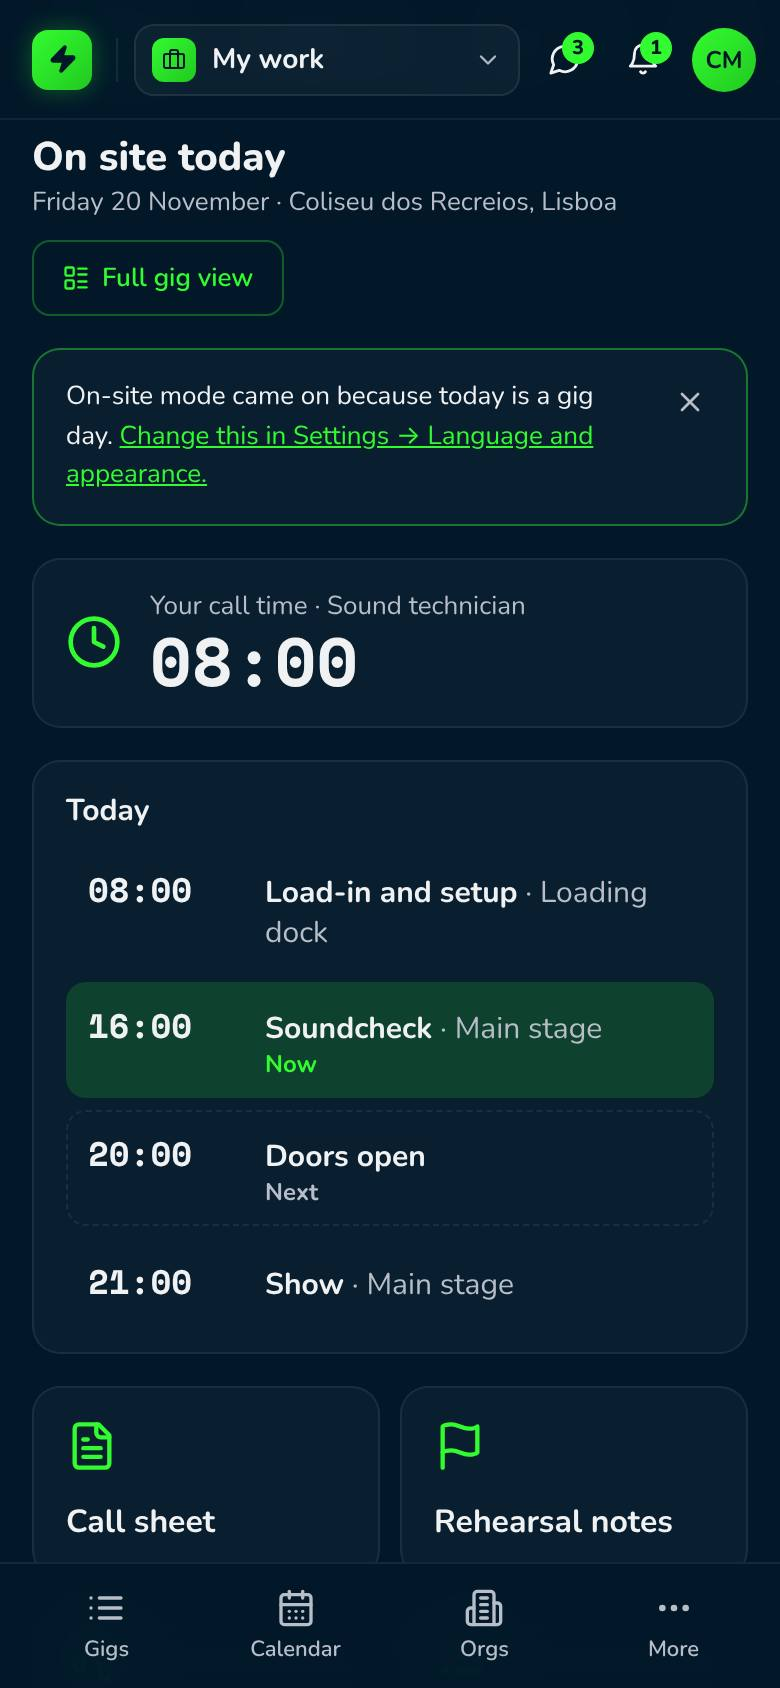
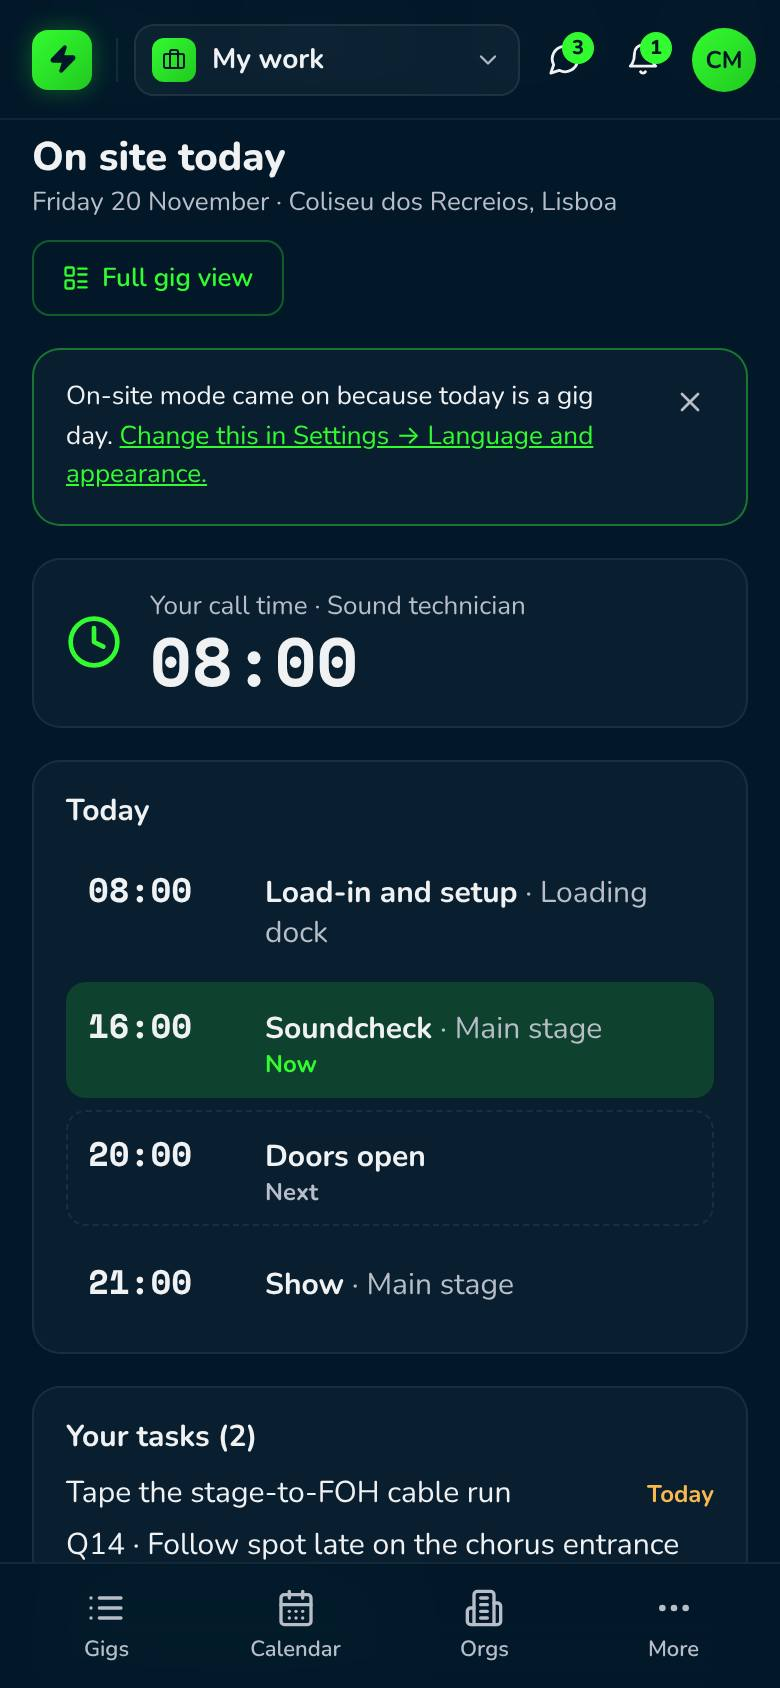
Tasks T2: organisation tasks, checklist templates, repairs as tasks, tasks in On-site mode — 0.59.0
Claude-Session: https://claude.ai/code/session_01SN7TraSZcL9idsFYdvFKh1

Changed region(s): [[0.0615, 0.8318, 0.9231, 0.9242]]

diff --git a/src/help/pt.js b/src/help/pt.js
@@ -135,6 +135,7 @@ export default {
     'inventory-item': { title: 'Um artigo de equipamento', summary: 'Um artigo do catálogo: detalhes, stock por local, unidades com etiquetas, conteúdo do kit, manutenção e histórico.' },
     jobs: { title: 'Trabalhos', summary: 'Vagas abertas de empresas no AVX: as das suas funções e distância, ou todas, e as suas candidaturas. O seu preço por dia só vai para a empresa a que se candidata.' },
     'org-jobs': { title: 'Vagas publicadas', summary: 'As vagas que a vossa organização publicou e quem se candidatou. Ponha na lista final, recuse ou ofereça o lugar; feche uma vaga ou marque-a como preenchida.' },
+    'org-tasks': { title: 'Tarefas', summary: 'As tarefas da própria organização e as dos seus eventos, com os modelos de lista.' },
     'crew-search': { title: 'Procurar técnicos', summary: 'Freelancers no AVX que ligaram o seu perfil profissional e deixam que as empresas o vejam. Pesquise por função, local, datas e língua, e depois pergunte por um evento ou ofereça um lugar. Os contactos ficam privados até a pessoa entrar.' },
     'crew-profile': { title: 'Perfil profissional', summary: 'Deixe que as empresas no AVX o encontrem para trabalhar. Desligado até o ligar; escolhe quem o vê (só empresas, ou empresas e técnicos) e pode mudá-lo, desligá-lo ou removê-lo a qualquer momento. Sem preços.' },
     contacts: { title: 'Contactos', summary: 'Os seus clientes e fornecedores, guardados uma vez. Os orçamentos escolhem daqui o cliente e os sub-alugueres o fornecedor. Importe-os de uma folha de cálculo, ou adicione de uma vez os clientes escritos em orçamentos antigos.' },
@@ -240,6 +241,19 @@ export default {
       mistakes: [
         'Só quem gere o evento e os administradores e membros da organização criam e alteram tarefas; a equipa marca-as.',
         'As tarefas só podem ser dadas a pessoas no evento. Junte-as primeiro à equipa.',
+      ],
+    },
+    'pm-org-tasks': {
+      title: 'Tarefas da organização e modelos de lista',
+      intro: 'Trabalhos de escritório e armazém, reparações e listas que usa em todos os eventos.',
+      steps: [
+        'Abra Organização → Tarefas. Mostra as tarefas da própria organização e as dos eventos que pode ver. "Nova tarefa" cria uma para alguém da organização; "Organização" e "Nos eventos" filtram a lista.',
+        'Em "Modelos de lista", escreva uma lista uma vez (verificação da carrinha, desmontagem). Ao começar uma tarefa, num evento ou aqui, "Começar a partir de um modelo" preenche a lista.',
+        'Em Inventário → Manutenção, abra uma reparação e toque em "Criar tarefa": a reparação passa a ser uma tarefa da organização, pronta a atribuir.',
+      ],
+      mistakes: [
+        'Alterar um modelo não muda as tarefas já criadas a partir dele.',
+        'As tarefas de um evento editam-se no evento; aqui pode marcá-las.',
       ],
     },
     'crew-onsite': {

diff --git a/src/help/en.js b/src/help/en.js
@@ -138,6 +138,7 @@ export default {
     'inventory-item': { title: 'An equipment item', summary: 'One catalogue item: its details, stock per location, units with their labels, kit contents, maintenance and history.' },
     jobs: { title: 'Jobs', summary: 'Open positions from companies on AVX: the ones for your functions and travel range, or all of them, and your applications. Your day rate goes only to the company you apply to.' },
     'org-jobs': { title: 'Job posts', summary: 'The positions your organisation posted to the job board and who applied. Shortlist, decline or offer the place; close a post or mark it filled.' },
+    'org-tasks': { title: 'Tasks', summary: 'The organisation\'s own tasks and those on its gigs, with its checklist templates.' },
     'crew-search': { title: 'Find crew', summary: 'Freelancers on AVX who switched on their crew profile and let companies see it. Search by function, place, dates and language, then ask about a gig or offer a place. Their contact details stay private until they join.' },
     'crew-profile': { title: 'Crew profile', summary: 'Let companies on AVX find you for work. Off until you switch it on; you choose who sees it (companies only, or companies and crew) and can change, switch off or remove it at any time. No rates on it.' },
     contacts: { title: 'Contacts', summary: 'Your clients and suppliers, kept once. Quotes pick their client from here and subrentals their supplier. Import them from a spreadsheet, or add the clients typed on older quotes in one go.' },
@@ -243,6 +244,19 @@ export default {
       mistakes: [
         'Only the gig\'s managers and the organisation\'s admins and members create and change tasks; crew tick them.',
         'Tasks can only be given to people on the gig. Add them to the crew first.',
+      ],
+    },
+    'pm-org-tasks': {
+      title: 'Organisation tasks and checklist templates',
+      intro: 'Office and warehouse jobs, repairs, and checklists you use on every gig.',
+      steps: [
+        'Open Organisation → Tasks. It lists the organisation\'s own tasks and those on its gigs that you can see. "New task" makes one for someone in the organisation; "Organisation" and "On gigs" filter the list.',
+        'Under "Checklist templates", write a checklist once (a van check, a load-out). When you start a task, on a gig or here, "Start from a template" fills in its checklist.',
+        'In Inventory → Maintenance, open a repair and tap "Make a task": the repair becomes a task on the organisation, ready to give to someone.',
+      ],
+      mistakes: [
+        'Changing a template doesn\'t change the tasks already made from it.',
+        'Tasks on a gig are edited on the gig; here you can tick them.',
       ],
     },
     'crew-onsite': {

diff --git a/src/help/index.js b/src/help/index.js
@@ -25,6 +25,7 @@ export const PAGE_TERMS = {
   'crew-search': ['crew-call', 'availability-request', 'network', 'block'],
   jobs: ['crew-call', 'block'],
   'org-jobs': ['crew-call', 'block'],
+  'org-tasks': ['repair'],
   quote: ['phase', 'factor', 'vat', 'quote-version', 'client-link', 'price-list'],
   orgs: ['organisation', 'org-admin', 'org-member', 'viewer', 'retention'],
 }
@@ -50,6 +51,7 @@ export const GUIDES = {
   'crew-jobs': { role: 'crew', pages: ['jobs', 'crew-profile'], terms: ['crew-call'], shots: [null, 'jobs-board', null] },
   'crew-rehearsal': { role: 'crew', pages: ['gig'], terms: ['timecode'], shots: [null, 'rehearsal', null, null] },
   'pm-tasks': { role: 'pm', pages: ['gig'], terms: [], shots: [null, 'gig-tasks', null] },
+  'pm-org-tasks': { role: 'pm', pages: ['org-tasks', 'inventory'], terms: ['repair'], shots: [null, 'org-task-templates', null] },
   'crew-onsite': { role: 'crew', pages: ['gig'], terms: ['call-time', 'schedule'], shots: [null, 'onsite', null] },
   'crew-dmx-calc': { role: 'crew', pages: ['pocket-tools', 'gig'], terms: ['dmx-address', 'dmx-universe'], shots: [null, 'dmx-calc', 'dmx-walk'] },
   'crew-trust': { role: 'crew', pages: ['crew-profile', 'jobs'], terms: [], shots: [null, null, null] },

diff --git a/src/pages/OrgTasksPage.jsx b/src/pages/OrgTasksPage.jsx
@@ -104,6 +104,7 @@ export default function OrgTasksPage() {
   if (!role) return (
     <AppShell>
       <div style={{ maxWidth: '360px', margin: '80px auto', textAlign: 'center', padding: '0 16px' }}>
+        <h1 style={{ fontSize: '20px', fontWeight: 800, marginBottom: '8px' }}>{t('tasks.orgTitle')}</h1>
         <p style={{ color: colors.muted, fontSize: '14px', lineHeight: 1.6, marginBottom: '20px' }}>{t('tasks.noAccess')}</p>
         <button type="button" onClick={() => navigate('/dashboard')} style={btnPrimary}><ArrowLeft size={14} /> {t('common.backToDashboard')}</button>
       </div>

diff --git a/docs/TOOLS_PLAN.md b/docs/TOOLS_PLAN.md
@@ -390,7 +390,7 @@ the step's PR, not a later clean-up. Numbers in brackets are from COMPETITOR_RES
 | 2 | **R2** camera and LTC sync ✅ 0.55.0 | R1 | Session clock type shown in the report |
 | 3 | **D1** DMX calculator and dipswitches ✅ 0.56.0 | DMX patch | DMX patch column and walk-through (by light plot position) |
 | 4 | **On-site mode** and Tools split (Plan / On site), personal auto setting ✅ 0.57.0 | R1, D1, field kit | Call sheet, rehearsal notes, walk-through, input list, scanning, settings |
-| 5 | **Tasks** [6]: **T1** gig tasks, My tasks, R1 notes → tasks, notification ✅ 0.58.0; **T2** organisation tasks, checklist templates | — | R1 notes → tasks ✅; T2: inventory repairs, On-site mode checklists |
+| 5 | **Tasks** [6]: **T1** gig tasks, My tasks, R1 notes → tasks, notification ✅ 0.58.0; **T2** organisation tasks, checklist templates ✅ 0.59.0 | — | R1 notes → tasks ✅, inventory repairs ✅, On-site mode ✅; gig templates (step 25) will copy tasks |
 | 6 | **Custom statuses and gig types** [10], **custom fields** [12] | — | Gig lists, calendar, filters, export, import |
 | 7 | **Crew rates** [3] | crew, functions | Crew calls and job posts (fee), quotes (labour lines) |
 | 8 | **Time registration** [2] | crew rates, schedule | Gig crew tab, calendar feed, export |
@@ -430,6 +430,14 @@ why none), and CHANGELOG lists those connections.
 | Checks | The assignee must be on the gig (or in the organisation); a note becomes a task on its own gig only, once |
 | Notification | `task_assigned` when someone else gives you a task or changes who it's for; a direct kind, sent even when the organisation is muted |
 | Screens | Gig → Tasks (`TasksTab`), My tasks (`/tasks`), the rehearsal session's "Make a task" button. Pure helpers in `src/lib/tasks.js` with tests; database checks in `supabase/tests/tasks.sql` |
+
+### How Tasks T2 works (0.59.0)
+
+| Piece | How it works |
+|---|---|
+| Templates | `task_templates` (migration `20261130000000_tasks_t2.sql`): name, notes, items (texts of up to 200 characters, up to 50). Members of the organisation read them; admins and members manage them; removing only marks them. At most 200 per organisation. Database checks in `supabase/tests/tasks_t2.sql` |
+| Repairs | `tasks.repair_id`: set when the task is made, never changed; the repair must be the organisation's, the task the organisation's own (not a gig's); one live task per repair |
+| Screens | Organisation → Tasks (`OrgTasksPage`, with the templates tab in `TaskTemplates`), "Start from a template" in the task form, "Make a task" in the repair window, the tasks card and tile in On-site mode |
 
 ## References
 

diff --git a/docs/PENDING.md b/docs/PENDING.md
@@ -87,6 +87,7 @@ Use your second email address as a crew member. Each line is a few minutes. New 
 | T48 | **DMX calculator (D1):** open My work → Pocket tools on your phone, with the connection off. Type an address you use: do the switches match what you'd set on one of your fixtures? Under "How my fixtures show the switches", set it to match a real fixture's label (ON up/down, switch 1 left/right) and check again. Tap switches: does the address change? Try "Address a row of fixtures" with your usual fixture. Then, in a gig's DMX patch, tap "Dipswitches" and "Walk the rig": does it step through the rig by position? Check the Portuguese wording | D1 (0.56.0) |
 | T49 | **On-site mode:** on a gig's day (or change a test gig's dates to today), open it on your phone: does it open on "On site today" with your call time and today's schedule, and a note saying why? Tap each big button. Tap "Full gig view": does it stay off for the rest of the day? On another gig, tap "On-site mode" to switch it on by hand. In Settings → Language and appearance, untick "Switch to On-site mode on gig days" and open the gig again: the normal overview. Check the Portuguese wording | 0.57.0 |
 | T50 | **Tasks (T1):** with two phones on one gig (a PM and a crew member). On the PM's, open the gig → Tasks → New task, give it to the crew member with a due date tomorrow and a checklist of three lines. Does the crew phone get a notification (and a push, if switched on) that opens the gig's Tasks tab? Is it under My work → My tasks? On the crew phone, tick two checklist items and then the task: does the PM's phone update without reloading, with "done by"? Try to edit it from the crew phone: no edit button. In a rehearsal session, tap the task button on a note: does a task appear, and a second tap say it already exists? Remove a task as PM (it asks first). Check the Portuguese wording | T1 (0.58.0) |
+| T51 | **Tasks (T2):** as an organisation admin, open Organisation → Tasks → Checklist templates and make a "Van check" with four lines. On a gig's Tasks tab, tap "New task" and "Start from a template": is the checklist filled in? Back on Organisation → Tasks, make a task for a member of the organisation: do they get a notification that opens My tasks, with the task in it? Try the Organisation / On gigs filters. In Inventory → Maintenance, open a repair and tap "Make a task", then again: the second time it says it already has one. On a gig day, does On-site mode show your tasks? Check the Portuguese wording | T2 (0.59.0) |
 
 ## 3. Decisions still open
 

diff --git a/CHANGELOG.md b/CHANGELOG.md
@@ -1,5 +1,36 @@
 # Changelog
 
+## 0.59.0 — Tasks (T2): organisation tasks, checklist templates, repairs
+
+### Added
+- **Organisation → Tasks** (`/org/:id/tasks`): the organisation's own tasks (office, warehouse,
+  repairs) and those on its gigs that you can see, in one list.
+  - Admins and members add tasks for anyone in the organisation, edit and remove them (removing
+    asks first).
+  - Filters: Mine, Open, Organisation, On gigs.
+  - Gig tasks link to their gig and are edited there; they can be ticked here.
+  - The list updates live and can be read offline.
+  - Viewers of the organisation can read the list.
+- **Checklist templates** (Organisation → Tasks → Checklist templates): a name, a checklist of up
+  to 50 items and notes.
+  - When starting a task, on a gig or for the organisation, "Start from a template" fills in the
+    checklist (added after any lines already typed), and the title and notes if they're empty.
+  - Changing or removing a template doesn't change tasks already made from it.
+- **Repairs as tasks:** in Inventory → Maintenance, an open repair has "Make a task". It creates a
+  task on the organisation with the item, unit and problem, ready to give to someone. A repair
+  has at most one task at a time.
+- **On-site mode:** your open tasks on the gig, most urgent first, with a button to the gig's
+  Tasks tab, and a Tasks tile.
+- Help: guide "Organisation tasks and checklist templates", with a picture. The On-site mode
+  picture is updated.
+
+### Connected to earlier features
+- Tasks T1 (0.58.0): the same lists, task form and notifications. Someone given an organisation
+  task gets "… gave you a task: …", opening My tasks.
+- Inventory maintenance (I5): repairs.
+- On-site mode (0.57.0): the tasks card and tile, also from the gig's offline copy.
+- The organisation menu has a new Tasks item.
+
 ## 0.58.0 — Tasks (T1)
 
 ### Added

diff --git a/ROADMAP.md b/ROADMAP.md
@@ -199,7 +199,7 @@ Planned 2026-10-26 in [docs/TOOLS_PLAN.md](docs/TOOLS_PLAN.md): rehearsal compan
 On-site mode, power, rigging and sound tools, built in dependency order with the business features
 from [docs/COMPETITOR_RESEARCH.md](docs/COMPETITOR_RESEARCH.md). **R1 built (0.54.0):** rehearsal
 notes with a shared timecode, live for everyone on the gig, offline, with a report per department.
-**R2 built (0.55.0):** the clock syncs from a camera pointed at a timecode display or from LTC audio, read on the phone. **D1 built (0.56.0):** the DMX calculator with dipswitches as a pocket tool, a dipswitch column and a walk-through in the DMX patch. **On-site mode built (0.57.0):** gigs open on the day's essentials on gig days. **Tasks T1 built (0.58.0):** tasks on a gig with checklists, My tasks, rehearsal notes into tasks, a notification for the person given one. Next: T2 (organisation tasks, checklist templates, tasks in On-site mode).
+**R2 built (0.55.0):** the clock syncs from a camera pointed at a timecode display or from LTC audio, read on the phone. **D1 built (0.56.0):** the DMX calculator with dipswitches as a pocket tool, a dipswitch column and a walk-through in the DMX patch. **On-site mode built (0.57.0):** gigs open on the day's essentials on gig days. **Tasks T1 built (0.58.0):** tasks on a gig with checklists, My tasks, rehearsal notes into tasks, a notification for the person given one. **Tasks T2 built (0.59.0):** organisation tasks, checklist templates, repairs as tasks, tasks in On-site mode. Next: custom statuses, gig types and custom fields (build order step 6).
 
 ## End of the build
 
